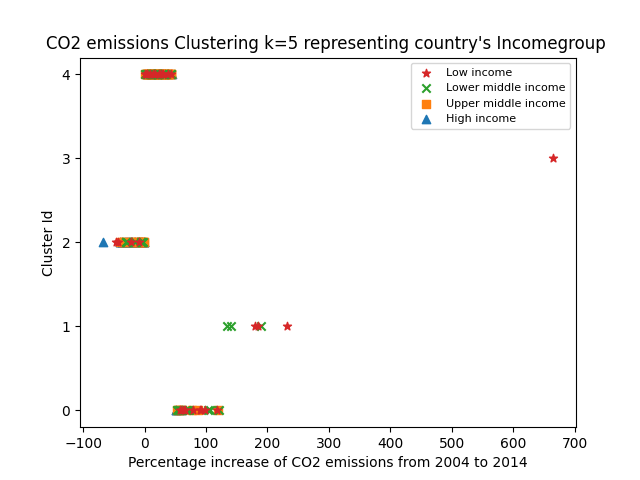
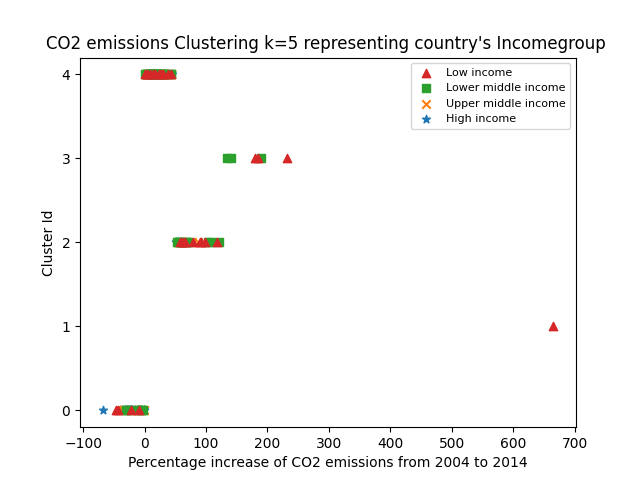
adding income level changes

diff --git a/Assignment/CO2_Emission_Analysis.py b/Assignment/CO2_Emission_Analysis.py
@@ -12,9 +12,6 @@ import geopandas
 import matplotlib.pyplot as plt
 import numpy as np
 
-income_data_dict = {"Low income": 4, "Lower middle income": 3,
-                    "Upper middle income": 2, "High income": 1}
-
 
 def get_change_in_percentage(a, b):
     return ((b - a) * 100)/a
@@ -48,14 +45,14 @@ def save_clustering_result(emission_data):
 
     fig, ax = plt.subplots()
 
-    hi = ax.scatter(x_array[country_marker_array == 1],
-                    y_array[country_marker_array == 1], marker='^')
-    umi = ax.scatter(x_array[country_marker_array == 2],
-                     y_array[country_marker_array == 2], marker='s')
-    lmi = ax.scatter(x_array[country_marker_array == 3],
-                     y_array[country_marker_array == 3], marker='x')
-    li = ax.scatter(x_array[country_marker_array == 4],
-                    y_array[country_marker_array == 4], marker='*')
+    hi = ax.scatter(x_array[country_marker_array == 10],
+                    y_array[country_marker_array == 10], marker='*')
+    umi = ax.scatter(x_array[country_marker_array == 20],
+                     y_array[country_marker_array == 20], marker='x')
+    lmi = ax.scatter(x_array[country_marker_array == 30],
+                     y_array[country_marker_array == 30], marker='s')
+    li = ax.scatter(x_array[country_marker_array == 40],
+                    y_array[country_marker_array == 40], marker='^')
 
     plt.legend((li, lmi, umi, hi),
                ('Low income', 'Lower middle income',
@@ -104,8 +101,8 @@ def perform_data_preprocessing(spark):
         "any", subset=("2004", "2014"))
 
     income_df = spark.createDataFrame(
-        [("Low income", 4), ("Lower middle income", 3),
-         ("Upper middle income", 2), ("High income", 1)],
+        [("Low income", 40), ("Lower middle income", 30),
+         ("Upper middle income", 20), ("High income", 10)],
         ["IncomeGroup", "Incomelevel"])
 
     # _load country meta_data income levels
